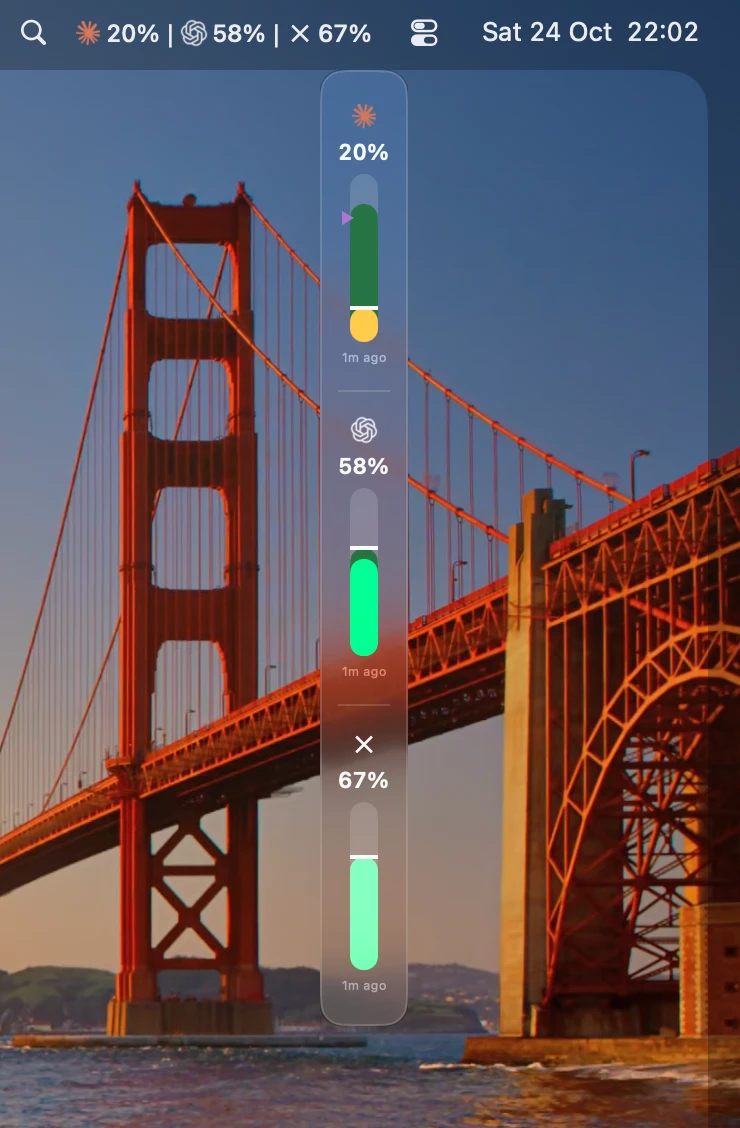
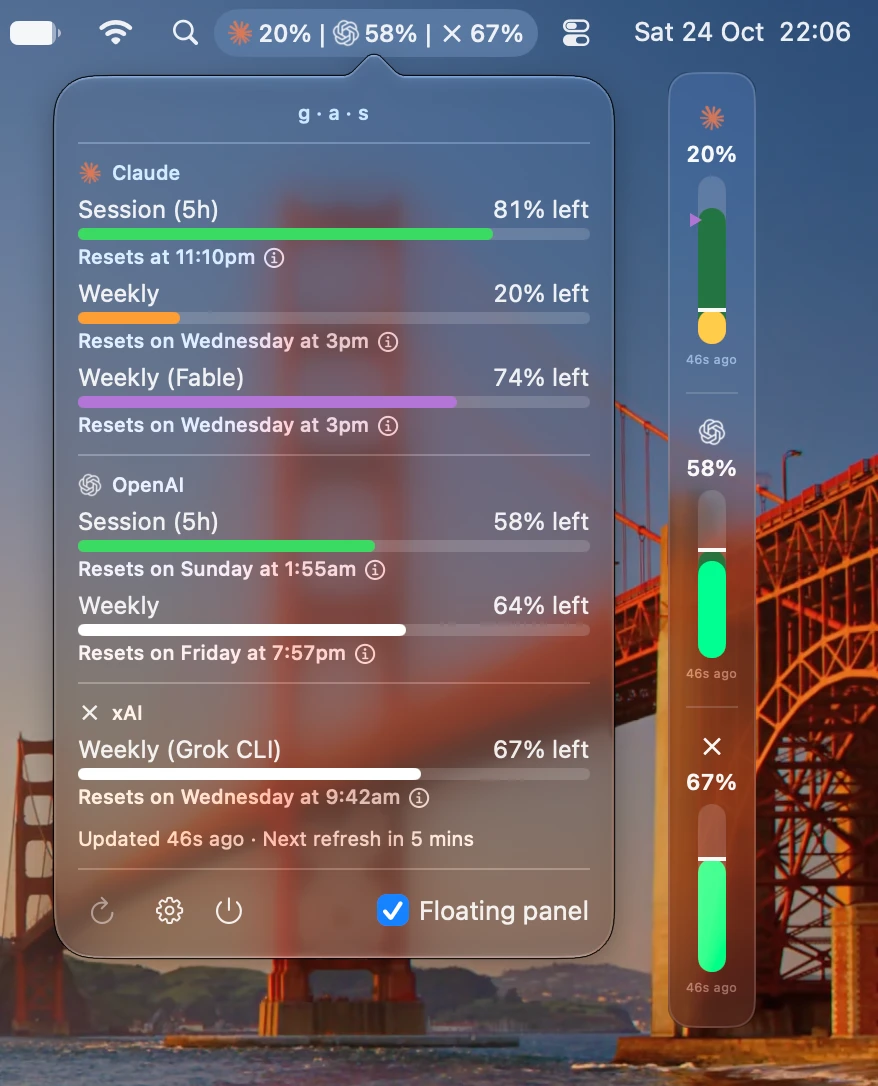
docs(readme): screenshot with the menu and the Grok provider

diff --git a/README.md b/README.md
@@ -3,7 +3,7 @@
 A macOS menu bar app that shows how much of your **Claude**, **OpenAI (Codex / ChatGPT)** and **Grok** plan you have used: the 5-hour session limit, the weekly limit, and per-model weekly limits.
 
 <p align="center">
-  <img src="docs/images/menu-and-panel.png" alt="The gas menu bar label and the floating panel with Claude, OpenAI and Grok" width="370">
+  <img src="docs/images/menu-and-panel.png" alt="The gas menu bar label, its menu, and the floating panel with Claude, OpenAI and Grok" width="439">
 </p>
 
 > Unofficial. gas is not affiliated with Anthropic, OpenAI or xAI. It reads endpoints that are not documented, so a provider change can stop it until gas is updated.
